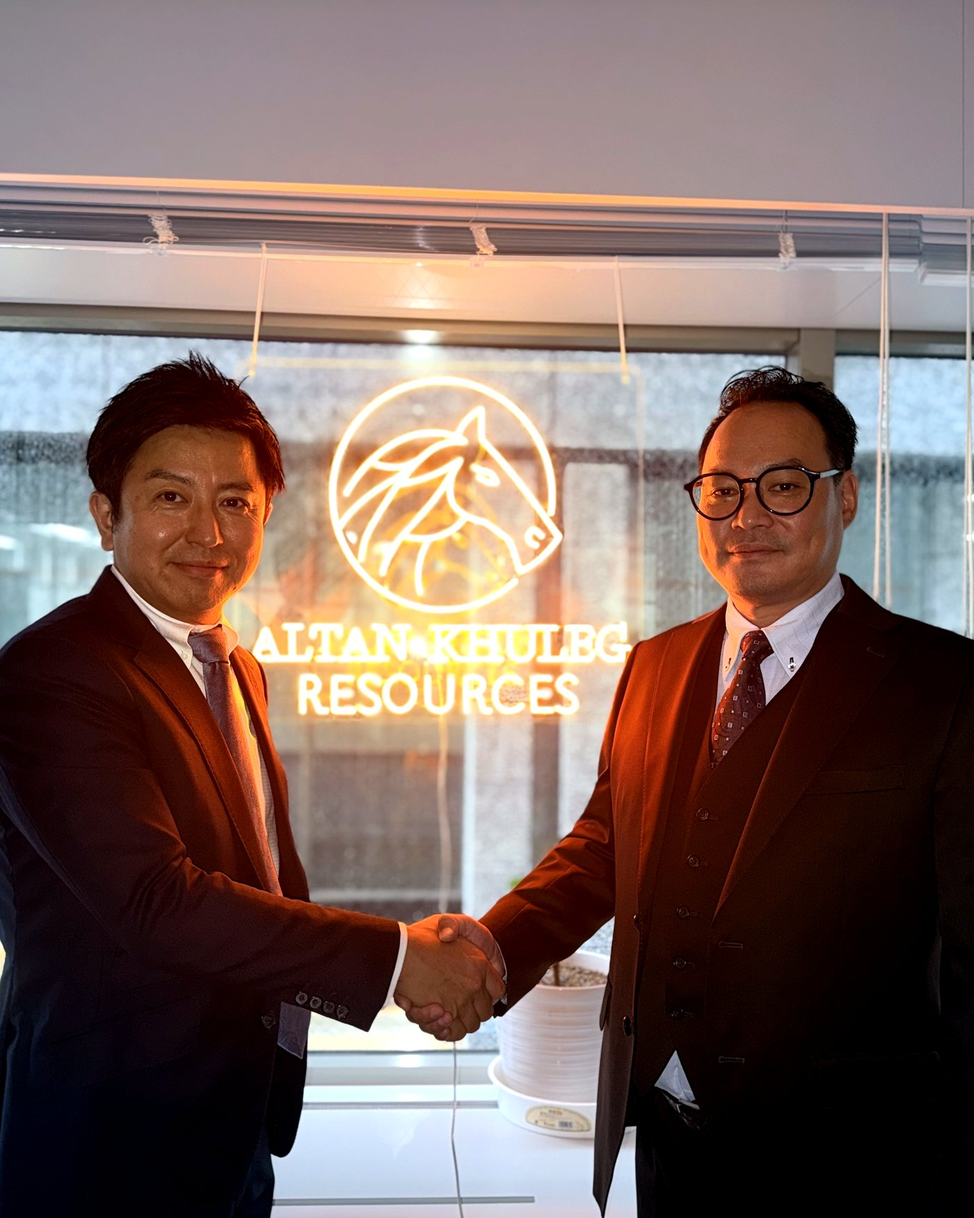
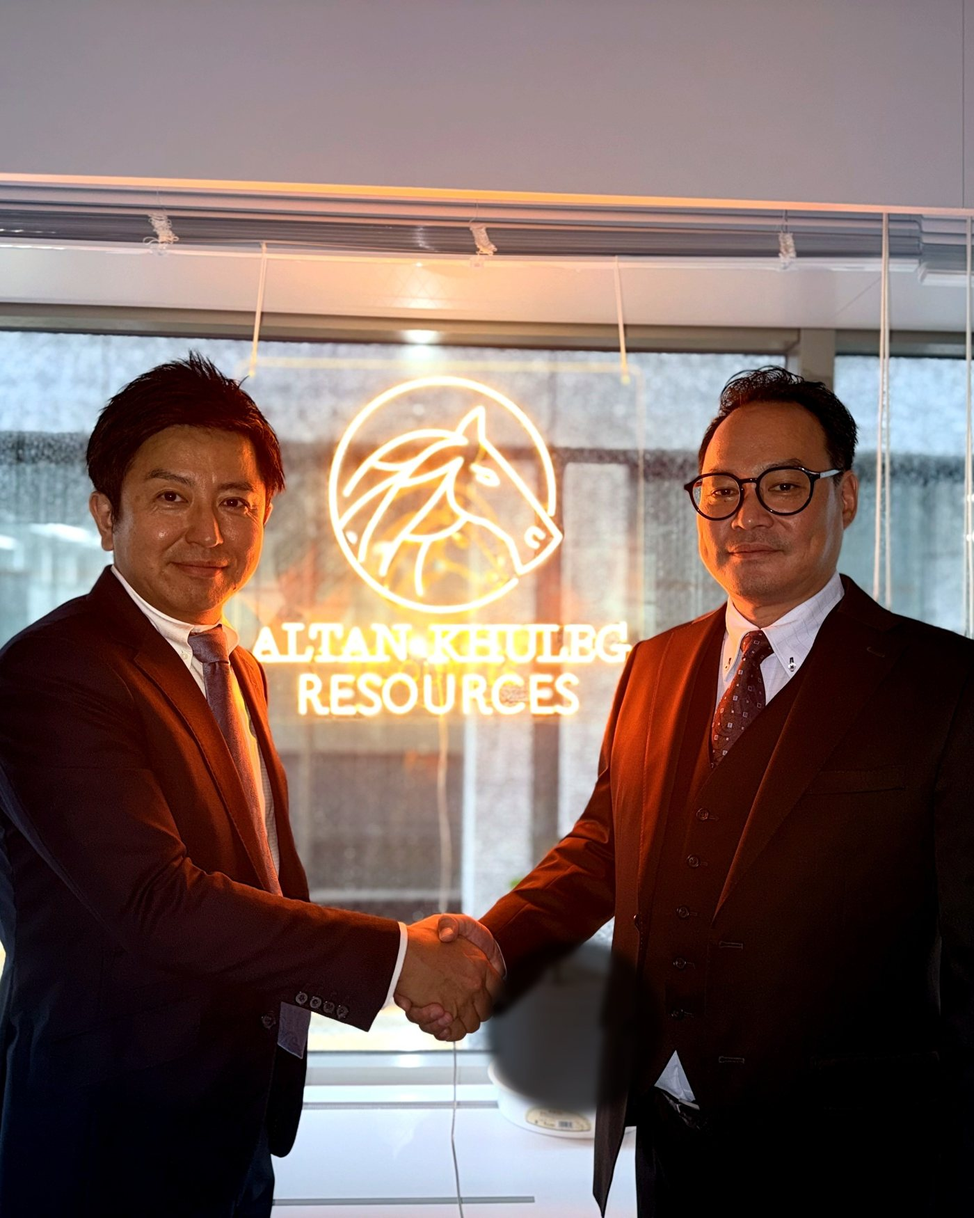
フィードバック反映：HERO差し戻し、写真修正、BASES地図、ENERGY写真、物流カルーセル追加
ユーザーからの実機レビューを受けて6点を修正：

1. HERO背景を元の紫色画像に差し戻し（docs/assets/img/fluorite-hero.jpg を新設
   し、RESOURCESページ用の fluorite-crystal.jpg とは別ファイルに分離）。
   直前のコミットでCC0画像に差し替えたが「質が前より良くない」との指摘を受け
   復帰。**この画像は出典不明のまま** — source/stock-photo-credits.md に
   要再検討として明記。

2. 会社紹介ページ TOKYO OFFICE を IMG_8532 → IMG_8554 に変更。元画像は
   ガラス越しの二重反射でロゴが「ALTAN KHULEGHULEG RESOURCESOURCES」の
   ように二重に見えるため、その反射部分を避ける位置でクロップして解決。

3. JAPAN × MONGOLIA 写真の背景が「乱雑」との指摘に対応：握手の間に写り込む
   白い鉢植えの台座をOpenCVで検出・ぼかし＋暗部化して目立たなくした
   （inpaintingも試したが不自然なにじみが出たため、ぼかし処理を採用）。

4. VISIONページの風景写真をより解像感の高い画像に差し替え（旧: Gorkhi-Terelj
   国立公園のやや霞んだ写真 → 新: 北部モンゴル Jargalant 近郊、6000x4000の
   鮮明な高解像度写真、Richard Mortel 撮影 CC BY 2.0）。

5. BASESページに、ウランバートルと東京を結ぶオリジナルのライン画「ルートマップ」
   を新設（実在の地図タイルは使わず、ブランドの馬ロゴと同じアウトラインを
   経由地点に配置した独自グラフィック — 地図ライセンスの重さも、ストック
   写真感も避けつつ「拠点」の視覚情報を追加）。

6. RESOURCESページ ENERGY RESOURCES カードにオイルタンク貯蔵施設の空撮写真を
   追加（従来はアイコンのみ）。

7. BUSINESSページ HOW WE WORK に、単一バナー写真 → 5枚（港/コンテナターミナル
   空撮/コンテナ列車/トレーラー/大型コンテナ船空撮）の自動スクロールカルーセル
   に拡張。CSSアニメーションで無限ループ、ホバー/フォーカスで一時停止、
   prefers-reduced-motion では静止表示に切り替え。

【実装上の注意点】
- カルーセル画像に `loading="lazy"` を付けていたが、トラックが
  `width:max-content` + CSS transform でアニメーションするため、ネイティブの
  遅延読み込みがレイアウト上「ビューポート外」と判定したまま画像を読み込まず、
  アニメーションで視界に入っても壊れたままになるバグを発見・削除で対応。
- `.logistics-track img` も `.photo-slot img` と同じ `height` 属性 vs
  `aspect-ratio` の衝突バグを踏むところだったため、`height:auto` を明示。

CC BY / CC BY-SA の新規画像（mongolia-landscape.jpg, logistics-terminal/
[…]

Changed region(s): [[0.4914, 0.7714, 0.6757, 0.9257]]

diff --git a/docs/styles.css b/docs/styles.css
@@ -298,7 +298,7 @@ html[lang="ja"] .site-nav a{
 .hero{position:relative;min-height:100vh;min-height:100svh;display:flex;align-items:center;overflow:hidden;--hero-p:0}
 .hero-bg{
   position:absolute;top:-14vh;bottom:0;left:0;right:0;z-index:0;   /* 上方向へオーバースキャン: 下へずらしても上端が見えない */
-  background:var(--hero-overlay),url("assets/img/fluorite-crystal.jpg") center/cover no-repeat;
+  background:var(--hero-overlay),url("assets/img/fluorite-hero.jpg") center/cover no-repeat;
   filter:var(--hero-img-filter);
   /* パララックス: 背景は前景よりゆっくり動き、わずかにズームイン */
   transform:scale(calc(1.05 + var(--hero-p) * .06)) translate3d(0,calc(var(--hero-p) * 9vh),0);
@@ -639,6 +639,35 @@ html.intro-done .hero-actions{transition-delay:1200ms}
 }
 .wide-banner img{width:100%;height:auto;aspect-ratio:2/1;object-fit:cover;display:block}
 
+/* BUSINESS page HOW WE WORK: a slow, continuous auto-scrolling filmstrip of
+   logistics photos (ship/port/rail/road) rather than one static banner.
+   The track holds the image set twice back-to-back and animates exactly
+   one set-width per loop, so the seam is invisible and the loop is
+   seamless. Decorative only (aria-hidden) — the disclaimer line below is
+   the one thing a screen reader needs from this block. */
+.logistics-carousel{overflow:hidden;border-radius:2px;margin-bottom:10px}
+.logistics-track{
+  display:flex;gap:12px;width:max-content;
+  animation:logisticsScroll 42s linear infinite;
+}
+.logistics-carousel:hover .logistics-track,
+.logistics-carousel:focus-within .logistics-track{animation-play-state:paused}
+.logistics-track img{
+  /* height:auto is required — the height="675" attribute (kept for CLS)
+     otherwise pins an explicit height, which disables aspect-ratio (it
+     only applies when a dimension is auto) and leaves object-fit:cover
+     stretch-cropping into a tall sliver instead of 4:3 */
+  flex:none;width:clamp(220px,28vw,340px);height:auto;aspect-ratio:4/3;object-fit:cover;
+  border-radius:2px;background:var(--img-backing);display:block;
+}
+@keyframes logisticsScroll{from{transform:translateX(0)}to{transform:translateX(-50%)}}
+.carousel-note{text-align:right;font-family:var(--serif-en);font-size:11px;letter-spacing:.06em;color:var(--muted)}
+@media (prefers-reduced-motion:reduce){
+  .logistics-track{animation:none}
+  .logistics-track img:nth-child(n+6){display:none}
+  .logistics-carousel{overflow-x:auto}
+}
+
 /* =========================================================
    RESOURCES
    ========================================================= */
@@ -774,6 +803,19 @@ html.intro-done .hero-actions{transition-delay:1200ms}
    BASES
    ========================================================= */
 .section--bases{background:var(--bg)}
+/* a small original line-art graphic (not a licensed map) showing the two
+   bases joined by one route, with the brand's horse mark riding the
+   midpoint — avoids both the licensing weight of a real map tile and the
+   generic-stock-photo look, in favor of something that is unambiguously
+   "ours" the way the logo mark already is */
+.route-map{
+  background:var(--panel);border:1px solid var(--line-soft);border-radius:2px;
+  padding:clamp(20px,4vw,40px) clamp(16px,3vw,32px);
+  margin-bottom:clamp(18px,3vw,28px);color:var(--ink);
+}
+.route-map-svg{width:100%;height:auto;display:block}
+.route-label{font-family:var(--serif-en);font-size:15px;font-weight:600;letter-spacing:.1em;fill:var(--text-strong)}
+.route-sublabel{font-family:var(--serif-jp);font-size:13px;fill:var(--muted);letter-spacing:.04em}
 .bases-grid{display:grid;grid-template-columns:repeat(2,1fr);gap:clamp(18px,3vw,28px)}
 .base-card{border:1px solid var(--line-soft);background:var(--bg-2);overflow:hidden;display:flex;flex-direction:column}
 .base-media{

diff --git a/docs/mn/bases/index.html b/docs/mn/bases/index.html
@@ -148,6 +148,40 @@
         <h2 class="section-title">Улаанбаатар, Токио<br>хотод оффистой.</h2>
       </div>
       <!-- 要社長確認：拠点住所・電話番号（2拠点） -->
+      <div class="route-map reveal">
+        <svg class="route-map-svg" viewBox="0 0 1600 480" role="img" aria-labelledby="routeMapTitle">
+          <title id="routeMapTitle">Манай хоёр салбар: Улаанбаатар ба Токио</title>
+          <g stroke="currentColor" stroke-width="1" opacity=".12">
+            <line x1="0" y1="80" x2="1600" y2="80"/>
+            <line x1="0" y1="180" x2="1600" y2="180"/>
+            <line x1="0" y1="280" x2="1600" y2="280"/>
+            <line x1="0" y1="380" x2="1600" y2="380"/>
+            <line x1="200" y1="0" x2="200" y2="480"/>
+            <line x1="500" y1="0" x2="500" y2="480"/>
+            <line x1="800" y1="0" x2="800" y2="480"/>
+            <line x1="1100" y1="0" x2="1100" y2="480"/>
+            <line x1="1400" y1="0" x2="1400" y2="480"/>
+          </g>
+          <path d="M 300 300 Q 800 110 1300 260" fill="none" stroke="var(--gold-deep)" stroke-width="2.5" stroke-dasharray="2 14" stroke-linecap="round"/>
+          <!-- midpoint mark: the brand's horse-head glyph (same outline path as the
+               header logo), scaled down small, riding the route's midpoint -->
+          <g transform="translate(740,120) scale(0.062)" fill="none" stroke="var(--gold-deep)" stroke-width="9" stroke-linejoin="round" stroke-linecap="round">
+            <path d="M799 228 C780 285 779 330 794 376 L1090 801 Q1100 813 1086 830 C1048 877 1002 918 950 946 Q934 956 922 936 L877 819 L782 756 C750 758 728 741 713 732 C685 782 624 813 569 816 C539 884 490 951 519 1024 C479 979 481 913 494 867 L530 835 C507 837 479 830 459 821 C410 870 377 910 351 960 C399 807 545 662 660 490 C502 559 336 690 271 878 C271 783 306 686 396 599 C313 618 242 682 198 750 C211 653 302 574 441 514 C397 540 349 521 315 502 C267 547 225 593 202 635 C234 498 375 350 526 339 C582 334 626 342 663 359 C700 288 750 251 799 228 Z"/>
+          </g>
+          <g transform="translate(300,300)">
+            <circle r="8" fill="var(--gold-deep)"/>
+            <circle r="16" fill="none" stroke="var(--gold-deep)" stroke-width="1.5" opacity=".5"/>
+            <text x="0" y="-34" text-anchor="middle" class="route-label">ULAANBAATAR</text>
+            <text x="0" y="46" text-anchor="middle" class="route-sublabel">Төв оффис</text>
+          </g>
+          <g transform="translate(1300,260)">
+            <circle r="8" fill="var(--gold-deep)"/>
+            <circle r="16" fill="none" stroke="var(--gold-deep)" stroke-width="1.5" opacity=".5"/>
+            <text x="0" y="-34" text-anchor="middle" class="route-label">TOKYO</text>
+            <text x="0" y="46" text-anchor="middle" class="route-sublabel">Токио оффис</text>
+          </g>
+        </svg>
+      </div>
       <div class="bases-grid">
         <article class="base-card reveal">
           <div class="base-media" aria-hidden="true">

diff --git a/docs/bases/index.html b/docs/bases/index.html
@@ -148,6 +148,40 @@
         <h2 class="section-title">ウランバートルと東京、<br>両国に拠点を構えています。</h2>
       </div>
       <!-- 要社長確認：拠点住所・電話番号（2拠点） -->
+      <div class="route-map reveal">
+        <svg class="route-map-svg" viewBox="0 0 1600 480" role="img" aria-labelledby="routeMapTitle">
+          <title id="routeMapTitle">ウランバートルと東京、ふたつの拠点</title>
+          <g stroke="currentColor" stroke-width="1" opacity=".12">
+            <line x1="0" y1="80" x2="1600" y2="80"/>
+            <line x1="0" y1="180" x2="1600" y2="180"/>
+            <line x1="0" y1="280" x2="1600" y2="280"/>
+            <line x1="0" y1="380" x2="1600" y2="380"/>
+            <line x1="200" y1="0" x2="200" y2="480"/>
+            <line x1="500" y1="0" x2="500" y2="480"/>
+            <line x1="800" y1="0" x2="800" y2="480"/>
+            <line x1="1100" y1="0" x2="1100" y2="480"/>
+            <line x1="1400" y1="0" x2="1400" y2="480"/>
+          </g>
+          <path d="M 300 300 Q 800 110 1300 260" fill="none" stroke="var(--gold-deep)" stroke-width="2.5" stroke-dasharray="2 14" stroke-linecap="round"/>
+          <!-- midpoint mark: the brand's horse-head glyph (same outline path as the
+               header logo), scaled down small, riding the route's midpoint -->
+          <g transform="translate(740,120) scale(0.062)" fill="none" stroke="var(--gold-deep)" stroke-width="9" stroke-linejoin="round" stroke-linecap="round">
+            <path d="M799 228 C780 285 779 330 794 376 L1090 801 Q1100 813 1086 830 C1048 877 1002 918 950 946 Q934 956 922 936 L877 819 L782 756 C750 758 728 741 713 732 C685 782 624 813 569 816 C539 884 490 951 519 1024 C479 979 481 913 494 867 L530 835 C507 837 479 830 459 821 C410 870 377 910 351 960 C399 807 545 662 660 490 C502 559 336 690 271 878 C271 783 306 686 396 599 C313 618 242 682 198 750 C211 653 302 574 441 514 C397 540 349 521 315 502 C267 547 225 593 202 635 C234 498 375 350 526 339 C582 334 626 342 663 359 C700 288 750 251 799 228 Z"/>
+          </g>
+          <g transform="translate(300,300)">
+            <circle r="8" fill="var(--gold-deep)"/>
+            <circle r="16" fill="none" stroke="var(--gold-deep)" stroke-width="1.5" opacity=".5"/>
+            <text x="0" y="-34" text-anchor="middle" class="route-label">ULAANBAATAR</text>
+            <text x="0" y="46" text-anchor="middle" class="route-sublabel">ウランバートル本社</text>
+          </g>
+          <g transform="translate(1300,260)">
+            <circle r="8" fill="var(--gold-deep)"/>
+            <circle r="16" fill="none" stroke="var(--gold-deep)" stroke-width="1.5" opacity=".5"/>
+            <text x="0" y="-34" text-anchor="middle" class="route-label">TOKYO</text>
+            <text x="0" y="46" text-anchor="middle" class="route-sublabel">東京オフィス</text>
+          </g>
+        </svg>
+      </div>
       <div class="bases-grid">
         <article class="base-card reveal">
           <div class="base-media" aria-hidden="true">

diff --git a/docs/en/bases/index.html b/docs/en/bases/index.html
@@ -148,6 +148,40 @@
         <h2 class="section-title">With offices in both<br>Ulaanbaatar and Tokyo.</h2>
       </div>
       <!-- 要社長確認：拠点住所・電話番号（2拠点） -->
+      <div class="route-map reveal">
+        <svg class="route-map-svg" viewBox="0 0 1600 480" role="img" aria-labelledby="routeMapTitle">
+          <title id="routeMapTitle">Our two bases: Ulaanbaatar and Tokyo</title>
+          <g stroke="currentColor" stroke-width="1" opacity=".12">
+            <line x1="0" y1="80" x2="1600" y2="80"/>
+            <line x1="0" y1="180" x2="1600" y2="180"/>
+            <line x1="0" y1="280" x2="1600" y2="280"/>
+            <line x1="0" y1="380" x2="1600" y2="380"/>
+            <line x1="200" y1="0" x2="200" y2="480"/>
+            <line x1="500" y1="0" x2="500" y2="480"/>
+            <line x1="800" y1="0" x2="800" y2="480"/>
+            <line x1="1100" y1="0" x2="1100" y2="480"/>
+            <line x1="1400" y1="0" x2="1400" y2="480"/>
+          </g>
+          <path d="M 300 300 Q 800 110 1300 260" fill="none" stroke="var(--gold-deep)" stroke-width="2.5" stroke-dasharray="2 14" stroke-linecap="round"/>
+          <!-- midpoint mark: the brand's horse-head glyph (same outline path as the
+               header logo), scaled down small, riding the route's midpoint -->
+          <g transform="translate(740,120) scale(0.062)" fill="none" stroke="var(--gold-deep)" stroke-width="9" stroke-linejoin="round" stroke-linecap="round">
+            <path d="M799 228 C780 285 779 330 794 376 L1090 801 Q1100 813 1086 830 C1048 877 1002 918 950 946 Q934 956 922 936 L877 819 L782 756 C750 758 728 741 713 732 C685 782 624 813 569 816 C539 884 490 951 519 1024 C479 979 481 913 494 867 L530 835 C507 837 479 830 459 821 C410 870 377 910 351 960 C399 807 545 662 660 490 C502 559 336 690 271 878 C271 783 306 686 396 599 C313 618 242 682 198 750 C211 653 302 574 441 514 C397 540 349 521 315 502 C267 547 225 593 202 635 C234 498 375 350 526 339 C582 334 626 342 663 359 C700 288 750 251 799 228 Z"/>
+          </g>
+          <g transform="translate(300,300)">
+            <circle r="8" fill="var(--gold-deep)"/>
+            <circle r="16" fill="none" stroke="var(--gold-deep)" stroke-width="1.5" opacity=".5"/>
+            <text x="0" y="-34" text-anchor="middle" class="route-label">ULAANBAATAR</text>
+            <text x="0" y="46" text-anchor="middle" class="route-sublabel">Head Office</text>
+          </g>
+          <g transform="translate(1300,260)">
+            <circle r="8" fill="var(--gold-deep)"/>
+            <circle r="16" fill="none" stroke="var(--gold-deep)" stroke-width="1.5" opacity=".5"/>
+            <text x="0" y="-34" text-anchor="middle" class="route-label">TOKYO</text>
+            <text x="0" y="46" text-anchor="middle" class="route-sublabel">Tokyo Office</text>
+          </g>
+        </svg>
+      </div>
       <div class="bases-grid">
         <article class="base-card reveal">
           <div class="base-media" aria-hidden="true">

diff --git a/docs/mn/business/index.html b/docs/mn/business/index.html
@@ -205,10 +205,21 @@
           Японы хэрэглэгчдэд хүргэдэг.
         </p>
       </div>
-      <div class="wide-banner reveal">
-        <img src="/assets/img/logistics-port.jpg" width="1920" height="960" alt="Контейнер тээврийн дүрслэл" loading="lazy">
-        <p class="img-note">Зураг нь зөвхөн ойлголт өгөх зорилготой</p>
+      <div class="logistics-carousel reveal">
+        <div class="logistics-track">
+      <img src="/assets/img/logistics-port.jpg" width="900" height="675" alt="Боомт дахь контейнер хөлөг (зураг)">
+      <img src="/assets/img/logistics-terminal.jpg" width="900" height="675" alt="Контейнер терминалын агаарын зураг (зураг)">
+      <img src="/assets/img/logistics-train.jpg" width="900" height="675" alt="Контейнер ачааны галт тэрэг (зураг)">
+      <img src="/assets/img/logistics-truck.jpg" width="900" height="675" alt="Контейнер чиргүүлт ачааны машин (зураг)">
+      <img src="/assets/img/logistics-ship.jpg" width="900" height="675" alt="Том контейнер хөлгийн агаарын зураг (зураг)">
+      <img src="/assets/img/logistics-port.jpg" width="900" height="675" alt="" aria-hidden="true">
+      <img src="/assets/img/logistics-terminal.jpg" width="900" height="675" alt="" aria-hidden="true">
+      <img src="/assets/img/logistics-train.jpg" width="900" height="675" alt="" aria-hidden="true">
+      <img src="/assets/img/logistics-truck.jpg" width="900" height="675" alt="" aria-hidden="true">
+      <img src="/assets/img/logistics-ship.jpg" width="900" height="675" alt="" aria-hidden="true">
+        </div>
       </div>
+      <p class="carousel-note">Зураг нь зөвхөн ойлголт өгөх зорилготой</p>
       <ol class="flow">
         <li class="flow-step reveal">
           <svg class="ic" viewBox="0 0 24 24" aria-hidden="true"><path d="M3 21h18M6 21V10l6-4 6 4v11M10 21v-5h4v5"/></svg>

diff --git a/docs/en/business/index.html b/docs/en/business/index.html
@@ -202,10 +202,21 @@
           companies in Mongolia, verify its quality, arrange export, and deliver it to customers in Japan.
         </p>
       </div>
-      <div class="wide-banner reveal">
-        <img src="/assets/img/logistics-port.jpg" width="1920" height="960" alt="Container shipping, for illustration" loading="lazy">
-        <p class="img-note">Photo for illustrative purposes</p>
+      <div class="logistics-carousel reveal">
+        <div class="logistics-track">
+      <img src="/assets/img/logistics-port.jpg" width="900" height="675" alt="Container ship at port (for illustration)">
+      <img src="/assets/img/logistics-terminal.jpg" width="900" height="675" alt="Aerial view of a container terminal (for illustration)">
+      <img src="/assets/img/logistics-train.jpg" width="900" height="675" alt="Container freight train (for illustration)">
+      <img src="/assets/img/logistics-truck.jpg" width="900" height="675" alt="Container trailer truck (for illustration)">
+      <img src="/assets/img/logistics-ship.jpg" width="900" height="675" alt="Aerial view of a large container ship (for illustration)">
+      <img src="/assets/img/logistics-port.jpg" width="900" height="675" alt="" aria-hidden="true">
+      <img src="/assets/img/logistics-terminal.jpg" width="900" height="675" alt="" aria-hidden="true">
+      <img src="/assets/img/logistics-train.jpg" width="900" height="675" alt="" aria-hidden="true">
+      <img src="/assets/img/logistics-truck.jpg" width="900" height="675" alt="" aria-hidden="true">
+      <img src="/assets/img/logistics-ship.jpg" width="900" height="675" alt="" aria-hidden="true">
+        </div>
       </div>
+      <p class="carousel-note">Photo for illustrative purposes</p>
       <ol class="flow">
         <li class="flow-step reveal">
           <svg class="ic" viewBox="0 0 24 24" aria-hidden="true"><path d="M3 21h18M6 21V10l6-4 6 4v11M10 21v-5h4v5"/></svg>

diff --git a/docs/business/index.html b/docs/business/index.html
@@ -203,10 +203,21 @@
           輸出を手配し、日本のお客様へお届けする資源トレーディング会社です。
         </p>
       </div>
-      <div class="wide-banner reveal">
-        <img src="/assets/img/logistics-port.jpg" width="1920" height="960" alt="コンテナ輸送のイメージ" loading="lazy">
-        <p class="img-note">写真はイメージです</p>
+      <div class="logistics-carousel reveal">
+        <div class="logistics-track">
+      <img src="/assets/img/logistics-port.jpg" width="900" height="675" alt="港湾のコンテナ船（イメージ）">
+      <img src="/assets/img/logistics-terminal.jpg" width="900" height="675" alt="コンテナターミナルの空撮（イメージ）">
+      <img src="/assets/img/logistics-train.jpg" width="900" height="675" alt="コンテナ貨物列車（イメージ）">
+      <img src="/assets/img/logistics-truck.jpg" width="900" height="675" alt="コンテナトレーラー（イメージ）">
+      <img src="/assets/img/logistics-ship.jpg" width="900" height="675" alt="大型コンテナ船の空撮（イメージ）">
+      <img src="/assets/img/logistics-port.jpg" width="900" height="675" alt="" aria-hidden="true">
+      <img src="/assets/img/logistics-terminal.jpg" width="900" height="675" alt="" aria-hidden="true">
+      <img src="/assets/img/logistics-train.jpg" width="900" height="675" alt="" aria-hidden="true">
+      <img src="/assets/img/logistics-truck.jpg" width="900" height="675" alt="" aria-hidden="true">
+      <img src="/assets/img/logistics-ship.jpg" width="900" height="675" alt="" aria-hidden="true">
+        </div>
       </div>
+      <p class="carousel-note">写真はイメージです</p>
       <ol class="flow">
         <li class="flow-step reveal">
           <svg class="ic" viewBox="0 0 24 24" aria-hidden="true"><path d="M3 21h18M6 21V10l6-4 6 4v11M10 21v-5h4v5"/></svg>

diff --git a/docs/mn/resources/index.html b/docs/mn/resources/index.html
@@ -199,9 +199,7 @@
         </article>
 
         <article class="res-card reveal">
-          <div class="res-media res-media--tone tone-energy" aria-hidden="true">
-            <svg viewBox="0 0 24 24"><path d="M12 3c3 4 5 6 5 10a5 5 0 0 1-10 0c0-2 1-3 2-4 0 2 1 3 2 3 0-3-1-5-1-12z"/></svg>
-          </div>
+          <div class="res-media"><img src="/assets/img/energy-resources.jpg" width="1872" height="1189" alt="Эрчим хүчний дэд бүтэц (түлшний сав, зураг)" loading="lazy"><p class="img-note">Зураг нь зөвхөн ойлголт өгөх зорилготой</p></div>
           <div class="res-body">
             <p class="res-en">ENERGY RESOURCES</p>
             <h3>Эрчим хүчний нөөц баялаг <span class="tag">Ирээдүйд</span></h3>

diff --git a/docs/resources/index.html b/docs/resources/index.html
@@ -199,9 +199,7 @@
         </article>
 
         <article class="res-card reveal">
-          <div class="res-media res-media--tone tone-energy" aria-hidden="true">
-            <svg viewBox="0 0 24 24"><path d="M12 3c3 4 5 6 5 10a5 5 0 0 1-10 0c0-2 1-3 2-4 0 2 1 3 2 3 0-3-1-5-1-12z"/></svg>
-          </div>
+          <div class="res-media"><img src="/assets/img/energy-resources.jpg" width="1872" height="1189" alt="エネルギー関連施設（オイルタンク、イメージ）" loading="lazy"><p class="img-note">写真はイメージです</p></div>
           <div class="res-body">
             <p class="res-en">ENERGY RESOURCES</p>
             <h3>エネルギー資源 <span class="tag">将来展開</span></h3>

diff --git a/docs/en/resources/index.html b/docs/en/resources/index.html
@@ -198,9 +198,7 @@
         </article>
 
         <article class="res-card reveal">
-          <div class="res-media res-media--tone tone-energy" aria-hidden="true">
-            <svg viewBox="0 0 24 24"><path d="M12 3c3 4 5 6 5 10a5 5 0 0 1-10 0c0-2 1-3 2-4 0 2 1 3 2 3 0-3-1-5-1-12z"/></svg>
-          </div>
+          <div class="res-media"><img src="/assets/img/energy-resources.jpg" width="1872" height="1189" alt="Energy infrastructure (oil storage tanks, for illustration)" loading="lazy"><p class="img-note">Photo for illustrative purposes</p></div>
           <div class="res-body">
             <p class="res-en">ENERGY RESOURCES</p>
             <h3>Energy Resources <span class="tag">Future</span></h3>

diff --git a/docs/mn/vision/index.html b/docs/mn/vision/index.html
@@ -149,7 +149,7 @@
       </div>
       <div class="wide-banner reveal">
         <img src="/assets/img/mongolia-landscape.jpg" width="1920" height="960" alt="Монголын хээрийн тал (зураг)" loading="lazy">
-        <p class="img-note">Зураг нь зөвхөн ойлголт өгөх зорилготой | Зураг: Marcin Konsek (CC BY-SA 4.0)</p>
+        <p class="img-note">Зураг нь зөвхөн ойлголт өгөх зорилготой | Зураг: Richard Mortel (CC BY 2.0)</p>
       </div>
       <!-- 要社長確認：取扱・展開品目（銅・石炭・エネルギー等） -->
       <div class="phases">

diff --git a/docs/vision/index.html b/docs/vision/index.html
@@ -149,7 +149,7 @@
       </div>
       <div class="wide-banner reveal">
         <img src="/assets/img/mongolia-landscape.jpg" width="1920" height="960" alt="モンゴルの草原風景（イメージ）" loading="lazy">
-        <p class="img-note">写真はイメージです ｜ 写真: Marcin Konsek（CC BY-SA 4.0）</p>
+        <p class="img-note">写真はイメージです ｜ 写真: Richard Mortel（CC BY 2.0）</p>
       </div>
       <!-- 要社長確認：取扱・展開品目（銅・石炭・エネルギー等） -->
       <div class="phases">
